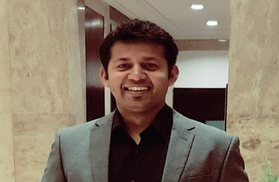
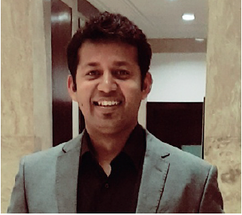
home page cards aligned for min-width:992px

diff --git a/knowUsMore.html b/knowUsMore.html
@@ -161,7 +161,7 @@
          border: 1px solid transparent;
          }
          h1.read-w3ls {
-         color: #ff8800;
+         color: #e4681f;
          padding: 10px;
          background: #fff;
          font-size: 32px;
@@ -328,7 +328,7 @@
          margin-top: 12px;
          }
          .hr-color1{
-         border-bottom: 2px solid #ff8800;
+         border-bottom: 2px solid #e4681f;
          border-top: none;
          }
          .hr-color2{
@@ -357,7 +357,7 @@
          color: #fff;
          border: none;
          font-family: 'Roboto', sans-serif;
-         background-color: #ff8800;
+         background-color: #e4681f;
          font-weight: 600;
          padding: 10px 25px;
          }
@@ -380,7 +380,7 @@
          padding-left: 8%;
          }
          .btn-common:hover, .btn-common:focus {
-         background: #ff8800;
+         background: #e4681f;
          box-shadow: none;
          color: #fff;
          border-color: #fff;
@@ -511,25 +511,22 @@
          -ms-transition: 0.5s all;
          font-size: 16px;
          }
-         .team-lnkd{
-           font-size: 0.7em;
-    background: #006DC0;
-    padding: 0.2em;
-    color: #fff;
-    border-radius: 15%;
-         }
-         .linked-in a{
+         .linked-in i{
            -webkit-transition: all 0.6s ease 0s;
-  -moz-transition: all 0.6s ease 0s;
-  -o-transition: all 0.6s ease 0s;
-  transition: all 0.6s ;
+            -moz-transition: all 0.6s ease 0s;
+            -o-transition: all 0.6s ease 0s;
+            transition: all 0.6s ;font-size: 20px;
+            background: #006DC0;
+            padding: 5px;
+            color: #fff;
+            border-radius: 15%;
          }
-         .linked-in a:hover{
+         .linked-in i:hover{
            -webkit-transform: scale(1.2);
--moz-transform: scale(1.2);
--ms-transform: scale(1.2);
--o-transform: scale(1.2);
-transform: scale(1.2);
+            -moz-transform: scale(1.2);
+            -ms-transform: scale(1.2);
+            -o-transform: scale(1.2);
+            transform: scale(1.2);
          }
 
          a.read-w3ls:hover {
@@ -678,12 +675,12 @@ transform: scale(1.2);
                <div class="col-md-3 col-sm-6 wow fadeInDown" data-wow-duration="500ms">
                   <article class="team-mate">
                      <div class="member-photo">
-                        <img style="border-radius: 10%;width: 242px;height: 215px;" class="img-responsive" src="images/clients/rsz_picture4.png" alt="Alok Nair Founder Digisquire:aloknair@digisquire.co">
+                        <img style="border-radius: 10%;width: 242px;height: 215px;" class="img-responsive" src="images/clients/aloknair.png" alt="Alok Nair Founder Digisquire:aloknair@digisquire.co">
                      </div>
                   </article>
                </div>
                <div class=" panel-text col-sm-7 wow fadeInRight" data-wow-duration="500ms" data-wow-delay="300ms">
-                   <h2 style="font-family: 'orbitron',sans-serif;font-size: 2em;color:#333;">Alok Nair <span><a target="_blank" href="https://www.linkedin.com/in/alok-nair-b774b135/"><i class="team-lnkd fa fa-linkedin"></i></a></span></h2>
+                   <h2 style="font-family: 'orbitron',sans-serif;font-size: 2em;color:#333;">Alok Nair <span class="linked-in"><a target="_blank" href="https://www.linkedin.com/in/alok-nair-b774b135/"><i class="fa fa-linkedin"></i></a></span></h2>
                    <p style="font-family: 'orbitron',sans-serif;font-size: 1.1em;">Founder, CEO</p>
                    <P style="font-family: 'Open Sans',sans-serif;text-align:justify;">Alok has 14 years of extensive experience in the IT industry having executed
 complex projects and built large teams ground up. Having worked in an Agile
@@ -700,7 +697,7 @@ focus on helping customers succeed.</P>
                  </article>
               </div>
               <div class=" panel-text col-sm-7 wow fadeInRight" data-wow-duration="500ms" data-wow-delay="300ms">
-                  <h2 style="font-family: 'orbitron',sans-serif;font-size: 2em;color:#333;">Gaurav Chattur <span class="linked-in"><a target="_blank" href="https://www.linkedin.com/in/gauravchattur"><i class="team-lnkd fa fa-linkedin"></i></a></span></h2>
+                  <h2 style="font-family: 'orbitron',sans-serif;font-size: 2em;color:#333;">Gaurav Chattur <span class="linked-in"><a target="_blank" href="https://www.linkedin.com/in/gauravchattur"><i class="fa fa-linkedin"></i></a></span></h2>
                   <p style="font-family: 'orbitron',sans-serif;font-size: 1.1em;">Advisor, Mentor</p>
                   <P style="font-family: 'Open Sans',sans-serif;text-align:justify;">Gaurav is currently the MD (Asia-Pacific) of Catenon Worldwide, an Executive
 Search firm. An ISB grad, Gaurav brings with him an in depth understanding of
@@ -812,7 +809,7 @@ business strategy, customer behaviour and management expertise.</P>
                 <p><span><a href="contact.html" target="_blank" class="smoth-scroll">Contact us</a></span></p>
                </div>
                <div class="col-md-4 text-center">
-                  <p>&copy;Copyright 2017 <span style="color:#ff8800;font-weight: 600;">DigiSquire.</span> </p>
+                  <p>&copy;Copyright 2017 <span style="color:#e4681f;font-weight: 600;">DigiSquire.</span> </p>
                </div>
                <div class="col-md-4 digisquire-credit text-right">
                   <p>Design By <a href="index.html" target="_blank" title="DigiSquire">DigiSquire</a></p>
@@ -834,6 +831,10 @@ business strategy, customer behaviour and management expertise.</P>
       <script type="text/javascript" src="js/jquery.min.js"></script>
       <script type="text/javascript" src="js/bocg.js"></script>
       <script type="text/javascript" src="js/wow.min.js"></script>
+      <script type="text/javascript">
+      //Initiat WOW JS
+      new WOW().init();
+      </script>
       <!-- Main Javascript File  -->
       <script type="text/javascript" src="js/whatWeDo.js"></script>
    </body>

diff --git a/careers.html b/careers.html
@@ -48,10 +48,10 @@
          font-weight: 400  ;
          }
          .resp-tab-active:before {
-         border-top: 10px solid #ff8800;
+         border-top: 10px solid #e4681f;
          }
          .resp-tab-active {
-         border-bottom: 4px solid #ff8800;
+         border-bottom: 4px solid #e4681f;
          }
          .caption.work-captn {
          float: left;
@@ -74,13 +74,13 @@
          color: #fff;
          border: none;
          font-family: 'Open Sans', sans-serif;
-         background-color: #ff8800;
+         background-color: #e4681f;
          font-weight: 600;
          padding: 10px 25px;
          }
          .btn-common:hover, .btn-common:focus {
          outline: none;
-         background: #ff8800;
+         background: #e4681f;
          box-shadow: none;
          color: #fff;
          border: none;
@@ -91,17 +91,17 @@
          }
          @media (max-width: 768px){
          h2.resp-tab-active {
-         border-bottom: 3px solid #ff8800 !important;
+         border-bottom: 3px solid #e4681f !important;
          }
          }
          @media (max-width: 768px){
          h2.resp-tab-active span.resp-arrow {
-         border-bottom: 12px solid #ff8800;
+         border-bottom: 12px solid #e4681f;
          }
          }
          @media only screen and (max-width: 768px){
          .navbar-header .navbar-toggle .icon-bar {
-         background-color: #ff8800;
+         background-color: #e4681f;
          }
          }
          /*header css*/
@@ -333,7 +333,7 @@
                   <p><span><a href="contact.html" target="_blank" class="smoth-scroll">Contact us</a></span></p>
                </div>
                <div class="col-md-4 text-center">
-                  <p>&copy;Copyright 2017 <span style="color:#ff8800;font-weight: 600;">DigiSquire.</span> </p>
+                  <p>&copy;Copyright 2017 <span style="color:#e4681f;font-weight: 600;">DigiSquire.</span> </p>
                </div>
                <div class="col-md-4 digisquire-credit text-right">
                   <p>Design By <a href="index.html" target="_blank" title="DigiSquire">DigiSquire</a></p>

diff --git a/contact.html b/contact.html
@@ -42,7 +42,7 @@
          padding: 0 0 12px;
          }
          .custom-hover-effects a::after {
-         background-color: #ff8000;
+         background-color: #e4681f;
          content: "";
          height: 3px;
          width: 100%;
@@ -248,7 +248,7 @@
          background: #333;
          }
          .navigation-background .navbar-toggle .icon-bar {
-         background: #ff8800;
+         background: #e4681f;
          }
          .navbar-toggle {
          margin-right: 0px;
@@ -282,7 +282,7 @@
          }
          }
          .digisquire-credit a {
-         color: #ff8800;
+         color: #e4681f;
          font-weight: 600;
          }
          /*Social header*/
@@ -422,7 +422,7 @@
                   <p><span><a href="contact.html" target="_blank" class="smoth-scroll">Contact us</a></span></p>
                </div>
                <div class="col-md-4 text-center">
-                  <p>&copy;Copyright 2017 <span style="color:#ff8800;font-weight: 600;">DigiSquire.</span> </p>
+                  <p>&copy;Copyright 2017 <span style="color:#e4681f;font-weight: 600;">DigiSquire.</span> </p>
                </div>
                <div class="col-md-4 digisquire-credit text-right">
                   <p>Design By <a href="index.html" target="_blank" title="DigiSquire">DigiSquire</a></p>

diff --git a/css/whatWeDo.css b/css/whatWeDo.css
@@ -181,7 +181,7 @@ body.loaded #preloader {
 	margin: -75px 0 0 -75px;
 	border-radius: 50%;
 	border: 3px solid transparent;
-	border-top-color: #ff8800;
+	border-top-color: #e4681f;
 	-webkit-animation: spin 2s linear infinite;
 	animation: spin 2s linear infinite;
 }
@@ -259,7 +259,7 @@ body.loaded #preloader {
 
 .scroll-to-top:hover,
 .scroll-to-top:focus {
-	background-color: #ff8800;
+	background-color: #e4681f;
 	color: #ffffff;
 }
 
@@ -481,7 +481,7 @@ body.loaded #preloader {
 /*custom hover effects*/
 
 .custom-hover-effects a::after {
-	background-color: #ff8000;
+	background-color: #e4681f;
 	content: "";
 	height: 3px;
 	width: 100%;
@@ -628,7 +628,7 @@ ul.sub-menu {
 }
 
 .digisquire-credit a {
-	color: #ff8800;
+	color: #e4681f;
 	font-weight: 600;
 }
 
@@ -1931,7 +1931,7 @@ Blog Default
 	border-left-style: solid;
 	border-left-width: 1px;
 	height: 100%;
-	border-left-color: #ff8800;
+	border-left-color: #e4681f;
 	left: 50%;
 	margin-left: -2px;
 }
@@ -2029,7 +2029,7 @@ a.read-more:hover {
 
 .icon-wrapper {
 	display: inline-block;
-	background-color: #ff8800;
+	background-color: #e4681f;
 	color: #fff;
 	padding: 25px;
 	box-shadow: 0 0 0 5px rgba(0, 0, 0, .1) inset;

diff --git a/index.html b/index.html
@@ -34,7 +34,7 @@
          padding: 0 0 12px;
          }
          .custom-hover-effects a::after {
-         background-color: #ff8000;
+         background-color: #e4681f;
          content: "";
          height: 3px;
          width: 100%;
@@ -477,7 +477,7 @@
 
          }
          /*medium size screen ipad landscape and pro portrait*/
-         @media only screen and (min-width:1024px) and (max-width:1199px) {
+         @media only screen and (min-width:1024px) and (max-width:992px) {
          .set-min-height {
            min-height: 18.7em;
           }
@@ -694,6 +694,10 @@
       <script type="text/javascript" src="js/jquery.min.js"></script>
       <script type="text/javascript" src="js/bocg.js"></script>
       <script type="text/javascript" src="js/wow.min.js"></script>
+      <script type="text/javascript">
+      //Initiat WOW JS
+      new WOW().init();
+      </script>
       <!-- Main Javascript File  -->
       <script type="text/javascript" src="js/home.js"></script>
    </body>

diff --git a/css/home.css b/css/home.css
@@ -108,7 +108,7 @@ li {
 	margin: -75px 0 0 -75px;
 	border-radius: 50%;
 	border: 3px solid transparent;
-	border-top-color: #ff8800;
+	border-top-color: #e4681f;
 	-webkit-animation: spin 2s linear infinite;
 	animation: spin 2s linear infinite;
 }
@@ -614,7 +614,7 @@ a.read-w3ls:hover {
 		background: #333;
 	}
 	.navigation-background .navbar-toggle .icon-bar {
-		background: #ff8800;
+		background: #e4681f;
 	}
 	.navbar-toggle {
 		margin-right: 0px;
@@ -658,7 +658,7 @@ a.read-w3ls:hover {
 /* digisquire Credit */
 
 .digisquire-credit a {
-	color: #ff8800;
+	color: #e4681f;
 	font-weight: 600;
 }
 

diff --git a/css/contact-style.css b/css/contact-style.css
@@ -37,7 +37,7 @@ h1, h2, h3, h4, h5, h6 {
 .map {
     width: 100%;
     height: 340px;
-    border: 1px solid #ff8800;
+    border: 1px solid #e4681f;
 }
 
 /*-- //map --*/
@@ -203,8 +203,8 @@ h1, h2, h3, h4, h5, h6 {
     font-size: .9em;
     margin: 1em 0 0 0;
     -webkit-appearance: none;
-    background: #ff5722;
-    border: 1px solid #FF5722;
+    background: #e4681f;
+    border: 1px solid #e4681f;
     -webkit-transition: 0.5s all;
     -moz-transition: 0.5s all;
     -o-transition: 0.5s all;

diff --git a/css/homeCl.css b/css/homeCl.css
@@ -65,7 +65,7 @@ li {
 }
 
 .container {
-	padding-right: 0px;
+	padding-right: 11px;
 	padding-left: 13px;
 }
 
@@ -99,7 +99,7 @@ body.loaded #preloader {
 	margin: -75px 0 0 -75px;
 	border-radius: 50%;
 	border: 3px solid transparent;
-	border-top-color: #ff8800;
+	border-top-color: #e4681f;
 	-webkit-animation: spin 2s linear infinite;
 	animation: spin 2s linear infinite;
 }

diff --git a/js/home.js b/js/home.js
@@ -35,8 +35,7 @@
 				  $('#eId').addClass('email-load');
 			}
 		});
-		//Initiat WOW JS
-		new WOW().init();
+		
 		/* Mobile Navigation Hide or Collapse on Click */
 		$(document).on('click', '.navbar-collapse.in', function (e) {
 			if ($(e.target).is('a') && $(e.target).attr('class') != 'dropdown-toggle') {

diff --git a/css/timeline.css b/css/timeline.css
@@ -82,7 +82,7 @@ body {
           transform: translate3d(0, 0, 0) translateY(25px);
   position: relative;
   z-index: 1;
-  text-align: justify;
+  text-align: left;
   width: 100%;
   top: 30%;
   opacity: 0;

diff --git a/css/responsive.css b/css/responsive.css
@@ -222,7 +222,7 @@
   }
 
   .navbar-header .navbar-toggle .icon-bar {
-    background-color: #ff8800;
+    background-color: #e4681f;
   }
 
   #header .navbar-inverse .navbar-toggle:hover {

diff --git a/js/whatWeDo.js b/js/whatWeDo.js
@@ -77,9 +77,6 @@
 			}, 800);
 			return false;
 		});
-		//Initiat WOW JS
-		new WOW().init();
-
 	});
 
 })(jQuery);
